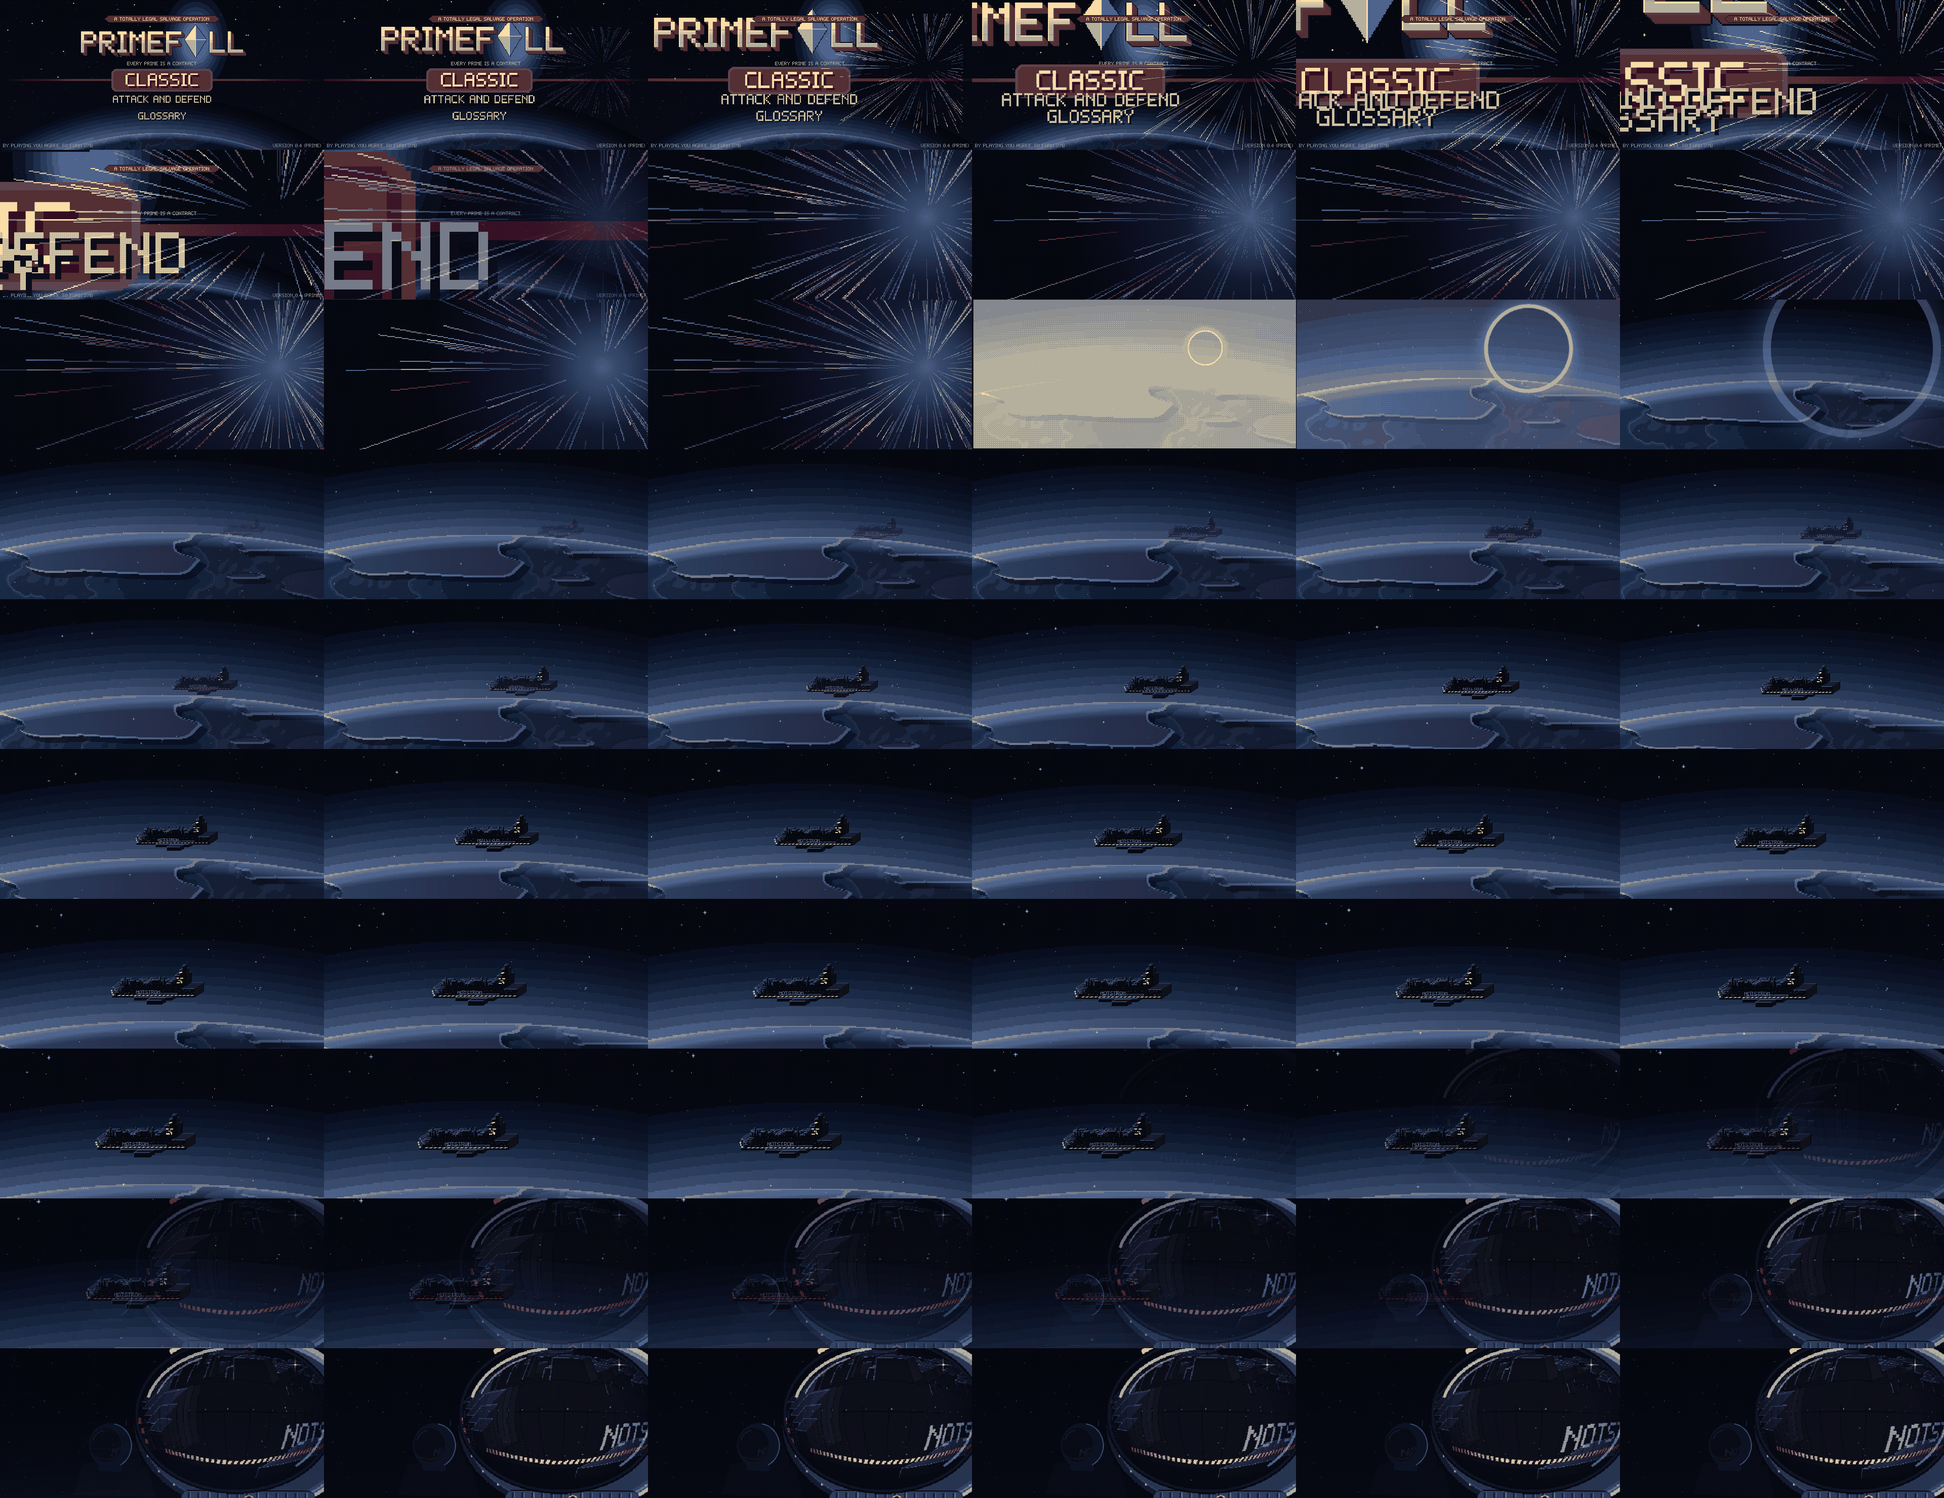
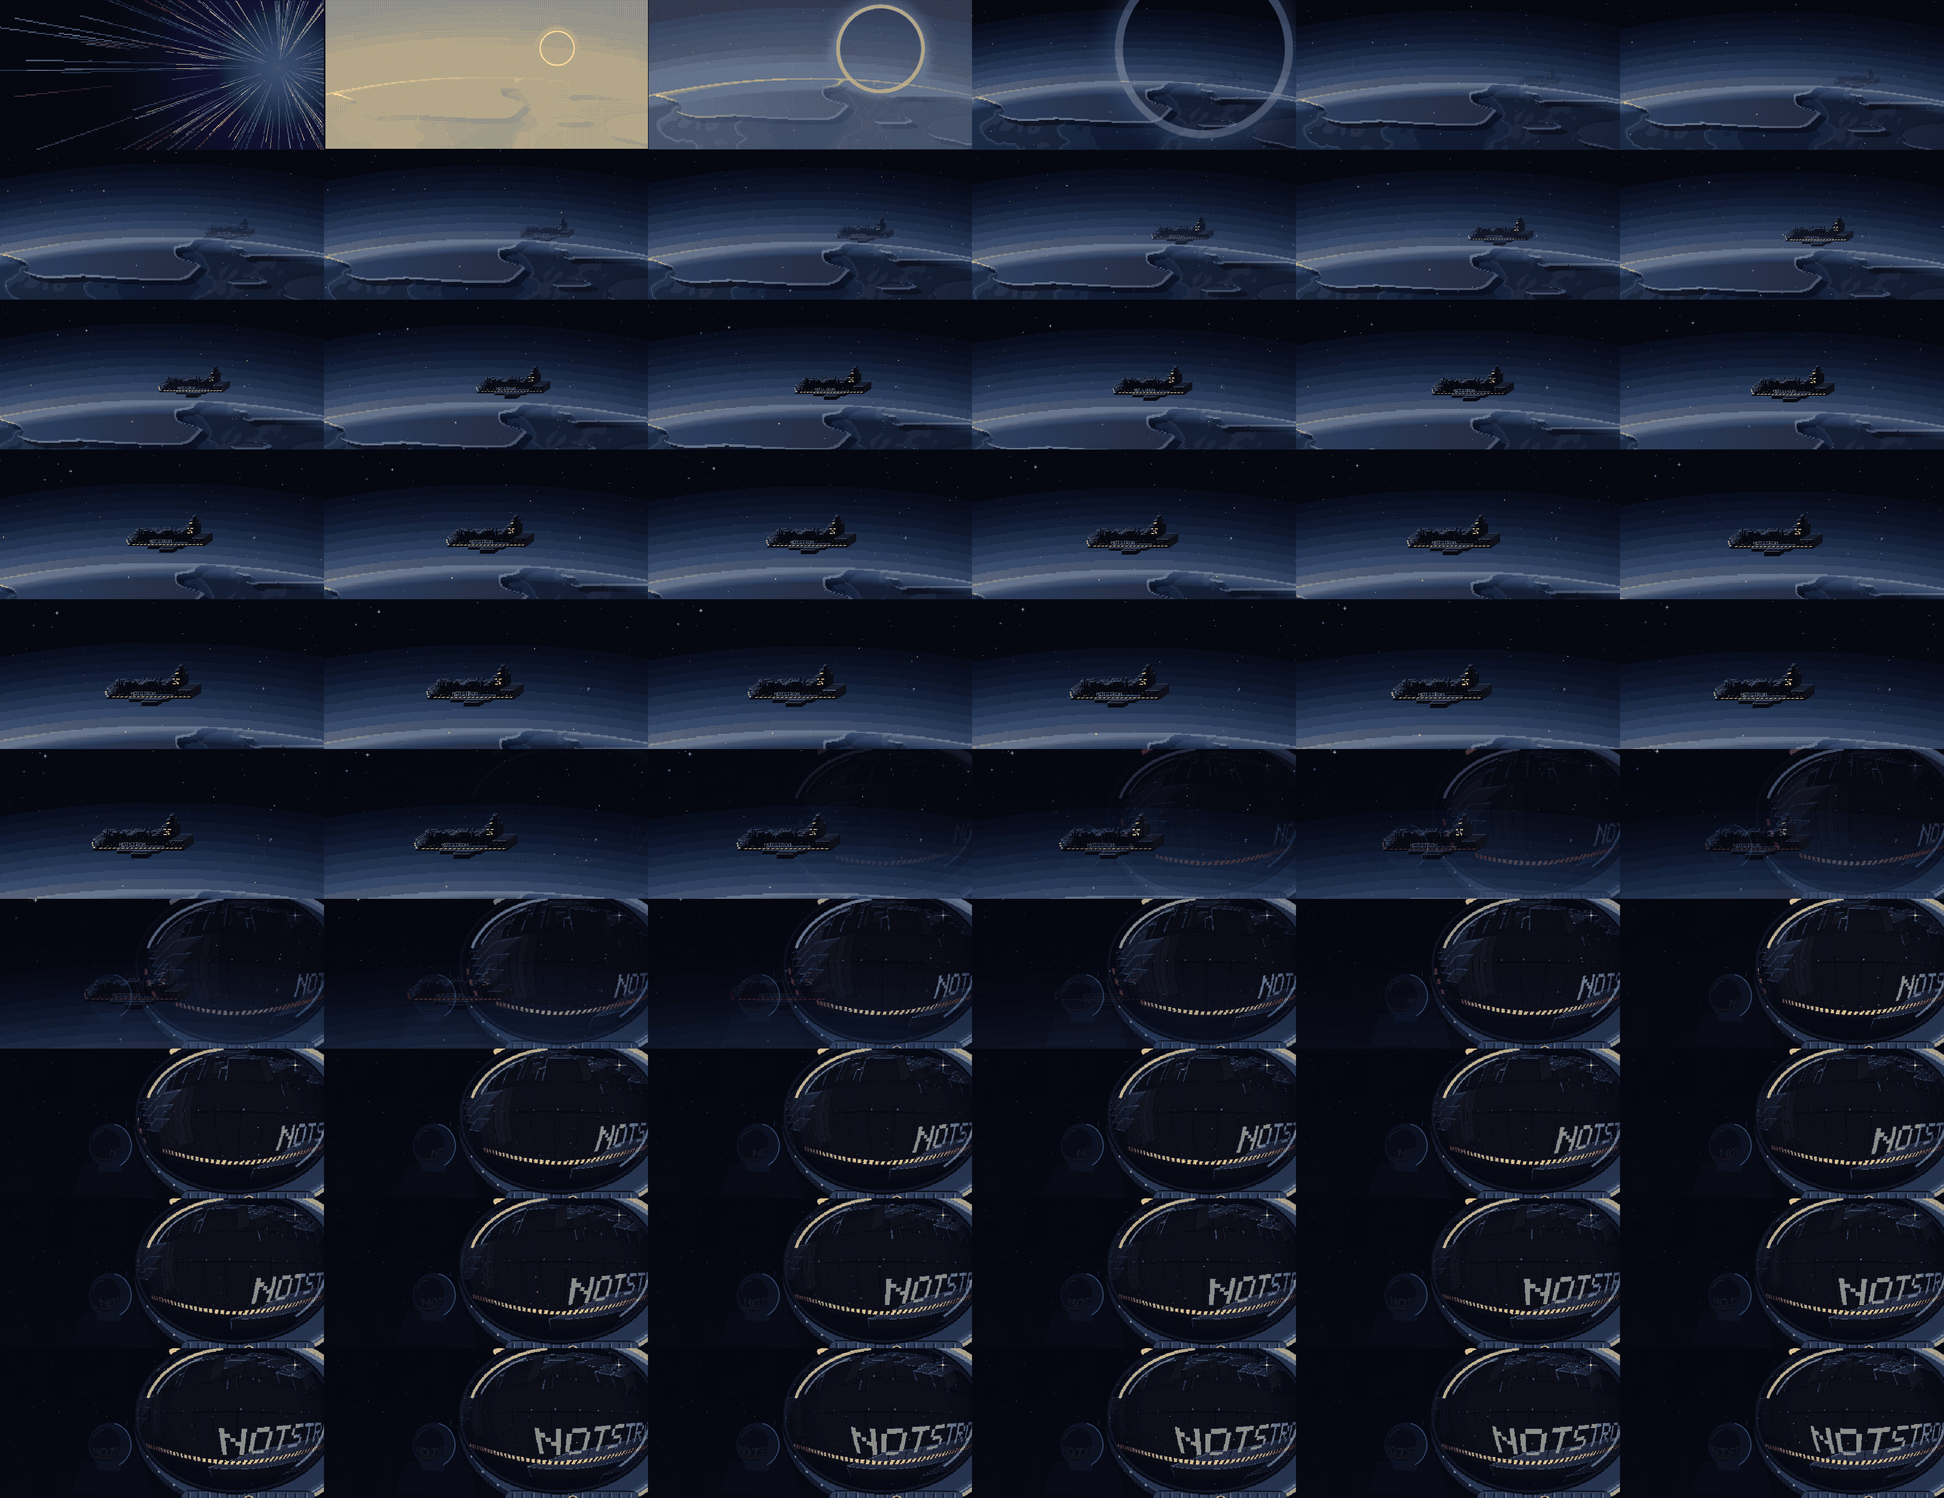
Pull the title screen away live and start the film at the light ring
Classic now runs the zoom and the tunnel of streaks on the real title screen for 1.17 s; the sprite sheets start where the ring at the end of the hyperspace begins (95 pictures, 8 s).

Claude-Session: https://claude.ai/code/session_01Rn1Tt7X9tQdJ1krB9aWBpp

diff --git a/apps/web/src/TitleScreen.tsx b/apps/web/src/TitleScreen.tsx
@@ -1,4 +1,5 @@
 import { useEffect, useState } from "react";
+import { WHIP_MS } from "./intro-film";
 import { preloadIntro } from "./NotstromIntro";
 import { AUTO_STEP_MS, BURST_OFFSET, FIREBALLS, MENU_SLOTS, type MenuId, menuIds, nextRow, percentX, percentY, STAGE, streakTop } from "./title-menu";
 import "./title-screen.css";
@@ -8,6 +9,8 @@ const ART = `${import.meta.env.BASE_URL}assets/title/`;
 interface TitleScreenProps {
   seed: number;
   canResume: boolean;
+  /** Whether Classic plays the film: the title screen is then pulled away live first, and `onPlay` follows when that is over. */
+  film: boolean;
   onPlay: () => void;
   onPlayAttackAndDefend: () => void;
   onResume: () => void;
@@ -21,10 +24,11 @@ const prefersReducedMotion = () => typeof window.matchMedia === "function" && wi
  * 640 x 296 pixels and scaled to the screen; the highlight (a red pill and a light streak) runs through the rows by itself until
  * the player touches one.
  */
-export function TitleScreen({ seed, canResume, onPlay, onPlayAttackAndDefend, onResume, onGlossary }: TitleScreenProps) {
+export function TitleScreen({ seed, canResume, film, onPlay, onPlayAttackAndDefend, onResume, onGlossary }: TitleScreenProps) {
   const ids = menuIds(canResume);
   const [row, setRow] = useState(0);
   const [touched, setTouched] = useState(false);
+  const [flying, setFlying] = useState(false);
   // The film of Classic is fetched while the start screen is shown.
   useEffect(preloadIntro, []);
 
@@ -34,8 +38,14 @@ export function TitleScreen({ seed, canResume, onPlay, onPlayAttackAndDefend, on
     return () => window.clearInterval(timer);
   }, [touched, ids.length]);
 
+  function fly() {
+    if (flying) return;
+    setFlying(true);
+    window.setTimeout(onPlay, WHIP_MS);
+  }
+
   const entries: Record<MenuId, { label: string; testId: string; run: () => void }> = {
-    classic: { label: "Classic", testId: "play-classic", run: onPlay },
+    classic: { label: "Classic", testId: "play-classic", run: film ? fly : onPlay },
     "attack-and-defend": { label: "Attack and Defend", testId: "play-attack-defend", run: onPlayAttackAndDefend },
     glossary: { label: "Glossary", testId: "glossary-button", run: onGlossary },
     resume: { label: "Resume match", testId: "resume", run: onResume },
@@ -47,8 +57,13 @@ export function TitleScreen({ seed, canResume, onPlay, onPlayAttackAndDefend, on
 
   return (
     <section className="title-screen" aria-label="Start" data-testid="start-screen">
-      <div className="title-stage">
-        <img className="title-layer" src={`${ART}background.png`} alt="" />
+      <div className={flying ? "title-stage flying" : "title-stage"}>
+        <div className="title-tunnel" aria-hidden="true">
+          <img className="title-streaks a" src={`${ART}hyperspace.png`} alt="" />
+          <img className="title-streaks b" src={`${ART}hyperspace.png`} alt="" />
+        </div>
+        <div className="title-pane">
+        <img className="title-layer title-back" src={`${ART}background.png`} alt="" />
         <img className="title-layer title-twinkle" src={`${ART}stars.png`} alt="" />
         {FIREBALLS.map((ball) => (
           <span key={ball.left} aria-hidden="true">
@@ -75,7 +90,7 @@ export function TitleScreen({ seed, canResume, onPlay, onPlayAttackAndDefend, on
         <h1 className="title-heading">
           <img className="title-layer title-logo" src={`${ART}logo.png`} alt="PRIMEFALL" />
         </h1>
-        <img className="title-layer" src={`${ART}tagline.png`} alt="A totally legal salvage operation. Every Prime is a contract." />
+        <img className="title-layer title-tagline" src={`${ART}tagline.png`} alt="A totally legal salvage operation. Every Prime is a contract." />
         <div className="title-streak" style={{ top: percentY(streakTop(MENU_SLOTS[row] ?? MENU_SLOTS[0])) }} aria-hidden="true" />
         {ids.map((id, index) => {
           const slot = MENU_SLOTS[index];
@@ -101,6 +116,8 @@ export function TitleScreen({ seed, canResume, onPlay, onPlayAttackAndDefend, on
         <p className="title-seed" data-testid="start-seed">
           seed {seed}
         </p>
+        </div>
+        <img className="title-whip" src={`${ART}hyperspace.png`} alt="" aria-hidden="true" />
       </div>
     </section>
   );

diff --git a/apps/web/src/title-screen.css b/apps/web/src/title-screen.css
@@ -27,6 +27,28 @@
 .title-item:focus-visible { outline: 2px solid #fff; }
 .title-seed { position: absolute; left: 1.5%; top: 1.5%; margin: 0; font: 500 12px var(--font-number); color: var(--muted); }
 
+/* The tap on Classic when the film follows: for 1.17 s the screen is pulled towards the planet (every part at its own speed, in
+eight steps), fades out, and a tunnel of light streaks shows behind it. Then the film (NotstromIntro.tsx) takes over. */
+.title-pane { position: absolute; inset: 0; }
+.title-tunnel { position: absolute; inset: 0; overflow: hidden; opacity: 0; pointer-events: none; background: radial-gradient(circle at 86% 45%, rgba(120, 130, 255, 0.55) 0%, rgba(50, 30, 130, 0.35) 22%, rgba(6, 6, 20, 0) 60%), #04060f; }
+.title-streaks { position: absolute; inset: 0; width: 100%; height: 100%; image-rendering: pixelated; transform-origin: 86% 45%; mix-blend-mode: screen; animation: title-streaks 0.36s steps(6, end) infinite; }
+.title-streaks.b { animation-delay: -0.18s; transform: rotate(7deg) scale(1.2); }
+@keyframes title-streaks { 0% { transform: scale(0.5); opacity: 0; } 15% { opacity: 1; } 100% { transform: scale(3.4); opacity: 0.2; } }
+.title-whip { position: absolute; inset: 0; width: 100%; height: 100%; image-rendering: pixelated; pointer-events: none; opacity: 0; mix-blend-mode: screen; transform-origin: 86% 45%; }
+.flying { pointer-events: none; }
+.flying .title-tunnel { animation: title-tunnel 1.4s step-end forwards; }
+.flying .title-pane { animation: title-paneout 0.6s step-end forwards; }
+.flying .title-whip { animation: title-whip 0.6s step-end forwards; }
+.flying .title-logo, .flying .title-tagline, .flying .title-item, .flying .title-streak { transform-origin: 86% 45%; animation: title-near 0.6s step-end forwards !important; }
+.flying .title-twinkle, .flying .title-haze, .flying .title-fireball, .flying .title-burst { transform-origin: 86% 45%; animation: title-mid 0.6s step-end forwards !important; }
+.flying .title-back { transform-origin: 86% 45%; animation: title-far 0.6s step-end forwards; }
+@keyframes title-tunnel { 0% { opacity: 0; } 22% { opacity: 1; } 88% { opacity: 0; } 100% { opacity: 0; } }
+@keyframes title-paneout { 0%, 75% { opacity: 1; } 87.5% { opacity: 0.6; } 100% { opacity: 0; } }
+@keyframes title-near { 0% { transform: scale(1); } 12.5% { transform: scale(1.12); } 25% { transform: scale(1.38); } 37.5% { transform: scale(1.8); } 50% { transform: scale(2.5); } 62.5% { transform: scale(3.7); } 75% { transform: scale(5.8); } 87.5% { transform: scale(9.5); } 100% { transform: scale(16); } }
+@keyframes title-mid { 0% { transform: scale(1); } 12.5% { transform: scale(1.05); } 25% { transform: scale(1.14); } 37.5% { transform: scale(1.3); } 50% { transform: scale(1.5); } 62.5% { transform: scale(1.8); } 75% { transform: scale(2.3); } 87.5% { transform: scale(3); } 100% { transform: scale(4); } }
+@keyframes title-far { 0% { transform: scale(1); } 12.5% { transform: scale(1.02); } 25% { transform: scale(1.05); } 37.5% { transform: scale(1.1); } 50% { transform: scale(1.17); } 62.5% { transform: scale(1.26); } 75% { transform: scale(1.38); } 87.5% { transform: scale(1.55); } 100% { transform: scale(1.8); } }
+@keyframes title-whip { 0% { opacity: 0; transform: scale(0.5); } 12.5% { opacity: 0.4; transform: scale(0.6); } 25% { opacity: 0.9; transform: scale(0.8); } 37.5% { opacity: 1; transform: scale(1); } 50% { opacity: 1; transform: scale(1.3); } 62.5% { opacity: 1; transform: scale(1.7); } 75% { opacity: 1; transform: scale(2.3); } 87.5% { opacity: 0.6; transform: scale(3); } 100% { opacity: 0; transform: scale(4); } }
+
 @media (prefers-reduced-motion: reduce) {
   .title-twinkle, .title-haze, .title-logo, .title-item.sel .title-on { animation: none; }
   .title-fireball, .title-burst { display: none; }

diff --git a/apps/web/src/App.tsx b/apps/web/src/App.tsx
@@ -7,7 +7,7 @@ import { EndScreen } from "./EndScreen";
 import { SideScreen } from "./SideScreen";
 import { TitleScreen } from "./TitleScreen";
 import { IntroFlash, NotstromIntro } from "./NotstromIntro";
-import { shouldPlayIntro } from "./intro-film";
+import { introPlays } from "./intro-film";
 import { clearSavedMatch, loadSavedMatch, loadSavedPlayerHero, parsePlayerHero, saveMatch } from "./match-storage";
 import { HeroSelectScreen } from "./HeroSelectScreen";
 import { PlanningScreen } from "./PlanningScreen";
@@ -82,8 +82,7 @@ export function App() {
   // Before the match: the start screen, the Hero Select (Play) or the Glossary, which run from static data and never touch the host or the saved match.
   const [entry, setEntry] = useState<"start" | "intro" | "side" | "select" | "replay" | "glossary">("start");
   const [flash, setFlash] = useState(false);
-  // The side chosen in Attack and Defend; none in the classic mode.
-  const [role, setRole] = useState<Role>();
+  const [role, setRole] = useState<Role>(); // The side chosen in Attack and Defend; none in the classic mode.
   // A match saved by an earlier visit, offered for Resume on the start screen.
   const [saved, setSaved] = useState(loadSavedMatch);
   // The Player Hero: set by the start parameter (?hero=controller); Resume restores the saved match's one.
@@ -91,7 +90,6 @@ export function App() {
   const [view, setView] = useMatchView(host, started, playerHero);
   // A browser plays sound only after a tap: the first one arms it.
   useEffect(() => gameAudio.armUnlock(), []);
-
   /** Starts a match of the mode: the host of the start screen is replaced by one with the same seed in the mode of the role. */
   function beginMatch(side: Role | undefined) {
     setHost(createLocalHost(seed, side && modeForRole(side), aiPlanner));
@@ -108,6 +106,7 @@ export function App() {
     setStarted(false);
   }
 
+  const film = !startParameters.has("hero") && introPlays(startParameters);
   function renderStart() {
     if (entry === "intro") return <NotstromIntro onDone={(playedToEnd) => { setFlash(playedToEnd); setEntry("select"); }} />;
     if (entry === "glossary") return <GlossaryScreen onClose={() => setEntry("start")} />;
@@ -128,11 +127,11 @@ export function App() {
       <TitleScreen
         seed={seed}
         canResume={saved !== undefined}
+        film={film}
         onPlay={() => {
           setRole(undefined);
           if (startParameters.has("hero")) beginMatch(undefined);
-          else if (shouldPlayIntro({ reducedMotion: window.matchMedia("(prefers-reduced-motion: reduce)").matches, automated: navigator.webdriver, forced: startParameters.get("intro") === "on" })) setEntry("intro");
-          else setEntry("select");
+          else setEntry(film ? "intro" : "select");
         }}
         onPlayAttackAndDefend={() => {
           const side = parseRole(startParameters.get("role"));

diff --git a/apps/web/src/intro-film.ts b/apps/web/src/intro-film.ts
@@ -1,16 +1,20 @@
 // The film of the tap on Classic (docs/design/intro): the title screen is pulled away, the ship leaves the hyperspace, the Notstrom
 // comes closer, an astronaut's visor mirrors it, the camera rides along the hull to the airlock, and a flash fills the picture.
 // It is drawn in pixels at 640 x 296 and shown at 12 pictures a second, packed in two sprite sheets (see the README there).
+// What comes before the sheets, the title screen pulled away and the tunnel of streaks, runs live on the title screen itself.
+
+/** How long the live part runs: until the light ring at the end of the hyperspace begins, where the first picture of the sheets is. */
+export const WHIP_MS = 1170;
 
 export const FILM = {
   fps: 12,
-  frames: 109,
+  frames: 95,
   width: 640,
   height: 296,
   columns: 6,
   sheets: [
     { file: "notstrom-1.png", frames: 60 },
-    { file: "notstrom-2.png", frames: 49 },
+    { file: "notstrom-2.png", frames: 35 },
   ],
   /** The colour of the last picture, which the flash fades out from into the next screen. */
   flashColor: "#fadda7",
@@ -45,5 +49,9 @@ export function shouldPlayIntro(options: { reducedMotion: boolean; automated: bo
   if (options.forced) return true;
   return !options.reducedMotion && !options.automated;
 }
+
+/** `shouldPlayIntro` for this browser and these start parameters. */
+export const introPlays = (parameters: URLSearchParams): boolean =>
+  shouldPlayIntro({ reducedMotion: window.matchMedia("(prefers-reduced-motion: reduce)").matches, automated: navigator.webdriver, forced: parameters.get("intro") === "on" });
 
 export const filmSheetUrl = (sheet: number): string => `${import.meta.env.BASE_URL}assets/intro/${FILM.sheets[sheet]!.file}`;

diff --git a/apps/web/src/intro-film.test.ts b/apps/web/src/intro-film.test.ts
@@ -7,8 +7,8 @@ describe("intro film", () => {
     expect(FILM.sheets.reduce((sum, sheet) => sum + sheet.frames, 0)).toBe(FILM.frames);
   });
 
-  it("runs about nine seconds at twelve pictures a second", () => {
-    expect(FILM_DURATION_MS).toBeCloseTo(9083, -1);
+  it("runs about eight seconds at twelve pictures a second after the live part", () => {
+    expect(FILM_DURATION_MS).toBeCloseTo(7917, -1);
   });
 
   it("shows the first picture at the start and holds the last one", () => {
@@ -25,7 +25,7 @@ describe("intro film", () => {
     expect(locateFrame(7)).toEqual({ sheet: 0, column: 1, row: 1 });
     expect(locateFrame(59)).toEqual({ sheet: 0, column: 5, row: 9 });
     expect(locateFrame(60)).toEqual({ sheet: 1, column: 0, row: 0 });
-    expect(locateFrame(FILM.frames - 1)).toEqual({ sheet: 1, column: 0, row: 8 });
+    expect(locateFrame(FILM.frames - 1)).toEqual({ sheet: 1, column: 4, row: 5 });
     expect(() => locateFrame(FILM.frames)).toThrow(RangeError);
   });
 

diff --git a/apps/web/scripts/screenshots.ts b/apps/web/scripts/screenshots.ts
@@ -286,10 +286,9 @@ async function playIntro(browser: Browser): Promise<void> {
   const started = Date.now();
   const at = async (ms: number) => page.waitForTimeout(Math.max(0, ms - (Date.now() - started)));
   const shoot = (name: string) => page.screenshot({ path: path.join(directory, name) });
-  await page.getByTestId("intro").waitFor();
   const frames: [number, string][] = [
-    [200, "01-title-pulled-away.png"],
-    [1000, "02-hyperspace.png"],
+    [350, "01-title-pulled-away.png"],
+    [900, "02-hyperspace.png"],
     [2900, "03-notstrom-far.png"],
     [4900, "04-visor.png"],
     [6900, "05-hull.png"],

diff --git a/docs/design/intro/README.md b/docs/design/intro/README.md
@@ -5,7 +5,11 @@ ship leaves the hyperspace, the Notstrom comes closer, an astronaut's visor mirr
 airlock, and a flash fills the picture and fades out over the Hero Select. A tap skips it; a player who asked their device for
 less motion, and an automated browser, go straight to the Hero Select (`?intro=on` plays it anyway).
 
-The film is pixel art: 109 pictures of 640 x 296 pixels at 12 a second, one palette of 64 colours, cross-fades and glows
+The first 1.17 s are not in the sheets: the real title screen is pulled towards the planet and a tunnel of light streaks shows behind
+it, drawn live by CSS (`title-screen.css`, class `flying`). The sheets start where the light ring at the end of the hyperspace
+begins; the live part hands over to them by calling `onPlay` (`WHIP_MS` in `intro-film.ts`).
+
+The film is pixel art: 95 pictures of 640 x 296 pixels at 12 a second, one palette of 64 colours, cross-fades and glows
 turned into a 4 x 4 ordered dither. The app plays them from two sprite sheets (`apps/web/public/assets/intro/notstrom-*.png`,
 6 pictures per row) with `NotstromIntro.tsx` and `intro-film.ts`.
 

diff --git a/apps/web/public/assets/intro/README.md b/apps/web/public/assets/intro/README.md
@@ -1,2 +1,3 @@
-The sprite sheets of the film after a tap on Classic: 109 pictures of 640 x 296 pixels, 6 per row, in `notstrom-1.png` (60
-pictures) and `notstrom-2.png` (49). Made by `docs/design/intro/tools`, see `docs/design/intro/README.md`.
+The sprite sheets of the film after a tap on Classic, from the light ring at the end of the hyperspace on: 95 pictures of
+640 x 296 pixels, 6 per row, in `notstrom-1.png` (60 pictures) and `notstrom-2.png` (35). Before them the title screen itself is
+pulled away live. Made by `docs/design/intro/tools`, see `docs/design/intro/README.md`.
